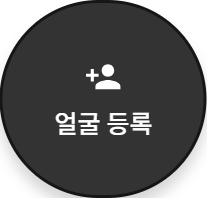
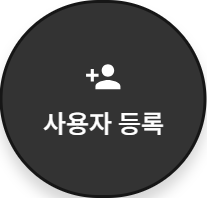
Fix: UI 수정 반영(반납, 연장, 버튼)

Changed region(s): [[0.2029, 0.5455, 0.8116, 0.697]]

diff --git a/ui_pages/extend_page.py b/ui_pages/extend_page.py
@@ -5,32 +5,29 @@ from PySide6.QtCore import Qt
 from .base_page import BasePage
 from ui_style import BUTTON_STYLE, CANCEL_BUTTON_STYLE
 
-class ReturnSeatPage(BasePage):
-    """좌석 반납 페이지"""
+class ExtendSeatPage(BasePage):
+    """좌석 연장 페이지"""
 
     def __init__(self, switch_callback):
         super().__init__(switch_callback)
-        self.setObjectName("ReturnSeatPage")
+        self.setObjectName("ExtendSeatPage")
 
         # 좌석 정보 (DB 연동 필요)
         self.seat_data = {
             "seat_room": "2-1",
-            "seat_number": "148",
-            "assigned_time_start": "1:00",
-            "assigned_time_end": "7:00",
-            "remaining_time_min": 300,
-            "total_time_min": 360,
-            "extend_time": "6:00"
+            "seat_number": "53",
+            "assigned_time_start": "1:00",  # 배정 시작
+            "assigned_time_end": "7:00",    # 배정 종료
+            "extend_duration": "3", # 연장 시간
+            "new_end_time": "10:00" # 연장 후 종료 시간
         }
-
-        # 색상 상수
+        
         CARD_BG = "#181818"
         BLUE = "#2e6cff"
         WHITE = "#ffffff"
-
-        # 기본 스타일
+        
         self.setStyleSheet(f"""
-            #ReturnSeatPage {{
+            #ExtendSeatPage {{
                 background-color: #1a1a1a;
                 color: {WHITE};
             }}
@@ -48,7 +45,7 @@ class ReturnSeatPage(BasePage):
         main_layout.addSpacing(40)
 
         # 질문 문구
-        question_label = QLabel("좌석을 반납하시겠습니까?")
+        question_label = QLabel("좌석을 연장하시겠습니까?")
         question_label.setAlignment(Qt.AlignCenter)
         question_label.setObjectName("QuestionText")
         main_layout.addWidget(question_label)
@@ -79,7 +76,7 @@ class ReturnSeatPage(BasePage):
         key_layout.setContentsMargins(0, 0, 0, 0)
         key_layout.setSpacing(22)
 
-        for text in ["좌석", "배정일시", "잔여시간", "연장가능시간"]:
+        for text in ["좌석", "배정일시", "연장시간", "종료시간"]: 
             lbl = QLabel(text)
             lbl.setStyleSheet(f"font-size: 16px; color: {WHITE}; font-weight: 800;")
             key_layout.addWidget(lbl, alignment=Qt.AlignLeft)
@@ -99,22 +96,21 @@ class ReturnSeatPage(BasePage):
             f'<span style="font-size:16px; color:{WHITE};">'
             f'제{self.seat_data["seat_room"]}열람실 {self.seat_data["seat_number"]}번'
             f'</span>',
-            
+
             # 배정일시
             f'<span style="font-size:16px; color:{WHITE};">'
             f'오후 {self.seat_data["assigned_time_start"]} ~ 오후 {self.seat_data["assigned_time_end"]}'
             f'</span>',
             
-            # 잔여시간
-            f'<span style="font-size:16px;">'
-            f'<span style="color:{BLUE}; font-weight:bold;">{self.seat_data["remaining_time_min"]}</span>' # 파란색
-            f'<span style="color:{WHITE};"> / {self.seat_data["total_time_min"]}</span>'
-            f'<span style="color:{WHITE};"> (분)</span>' 
-            f'</span>',
+            # 연장시간
+            f'<span style="font-size:16px; color:{BLUE}; font-weight:bold;">'
+            f'{self.seat_data["extend_duration"]}'  # 파란색
+            f'</span>'
+            f'<span style="font-size:16px; color:{WHITE};">시간</span>',
             
-            # 연장가능시간
+            # 종료시간
             f'<span style="font-size:16px; color:{WHITE};">'
-            f'오후 {self.seat_data["extend_time"]}'
+            f'오후 {self.seat_data["new_end_time"]}'
             f'</span>'
         ]
 
@@ -129,12 +125,12 @@ class ReturnSeatPage(BasePage):
         card_h_layout.addWidget(line_frame)
         card_h_layout.addLayout(value_layout)
 
-        # 반납 버튼
-        return_btn = QPushButton("반납")
-        return_btn.setFixedSize(120, 45)
-        return_btn.setStyleSheet(BUTTON_STYLE)
-        return_btn.clicked.connect(self._handle_return)
-        
+        # 연장 버튼
+        extend_btn = QPushButton("연장")
+        extend_btn.setFixedSize(120, 45)
+        extend_btn.setStyleSheet(BUTTON_STYLE)
+        extend_btn.clicked.connect(self._handle_extend)
+
         # 취소 버튼
         cancel_btn = QPushButton("취소")
         cancel_btn.setFixedSize(120, 45)
@@ -143,15 +139,15 @@ class ReturnSeatPage(BasePage):
 
         # 버튼 그룹 레이아웃
         btn_h_layout = QHBoxLayout()
-        btn_h_layout.addWidget(return_btn)
+        btn_h_layout.addWidget(extend_btn)
         btn_h_layout.addWidget(cancel_btn)
-        btn_h_layout.setAlignment(Qt.AlignHCenter)
-        
+        btn_h_layout.setAlignment(Qt.AlignCenter)
+
         main_layout.addSpacing(30)
         main_layout.addLayout(btn_h_layout)
         main_layout.addStretch(1)
 
 
-    def _handle_return(self):
-        """좌석 반납 처리 (DB 연동 필요)"""
-        self.switch_callback("result", mode="return")
+    def _handle_extend(self):
+        """좌석 연장 처리 (DB 연동 필요)"""
+        self.switch_callback("result", mode="extend")

diff --git a/main.py b/main.py
@@ -14,6 +14,7 @@ from ui_pages.enrollment_start_page import EnrollmentStartPage
 from ui_pages.enrollment_recording_page import EnrollmentRecordingPage
 from ui_pages.reservation_page import ReservationPage, SeatMapPage
 from ui_pages.return_page import ReturnSeatPage
+from ui_pages.extend_page import ExtendSeatPage
 
 from faceid.face_recognizer import FaceRecognizer
 
@@ -97,8 +98,8 @@ class MainWindow(QStackedWidget):
             self.setCurrentWidget(self.processing_page)
         
         elif page_name == "result":
-            if mode == "enroll":
-                result_page = ResultPage(self.switch_page, data, mode="enroll")
+            if mode:
+                result_page = ResultPage(self.switch_page, data, mode=mode)
             else:
                 result_page = ResultPage(self.switch_page, data)
 
@@ -115,7 +116,13 @@ class MainWindow(QStackedWidget):
             self.return_page = ReturnSeatPage(self.switch_page) 
             self.addWidget(self.return_page)
             self.setCurrentWidget(self.return_page)
-            
+
+        # 연장 페이지
+        elif page_name == "extend_seat":
+            self.extend_page = ExtendSeatPage(self.switch_page)   
+            self.addWidget(self.extend_page)
+            self.setCurrentWidget(self.extend_page)
+        
         # 임시 열람실 배치도 페이지
         elif page_name == "seat_map":
             self.seat_map_page = SeatMapPage(self.switch_page, data)

diff --git a/ui_pages/reservation_page.py b/ui_pages/reservation_page.py
@@ -145,7 +145,7 @@ class ReservationPage(BasePage):
         
         icon_layout.addWidget(self._create_icon_button("좌석확인", "simple_check.png", self._show_popup, "좌석 확인"))
         icon_layout.addWidget(self._create_icon_button("좌석반납", "return.png", self._go_to_return_page, None))
-        icon_layout.addWidget(self._create_icon_button("좌석연장", "more_time.png", self._show_popup, "좌석 연장"))
+        icon_layout.addWidget(self._create_icon_button("좌석연장", "more_time.png", self._go_to_extend_page, None))        
         icon_layout.addWidget(self._create_icon_button("Info", "info.png", self._show_popup, "안내사항"))
         
         layout.addLayout(icon_layout)
@@ -251,6 +251,9 @@ class ReservationPage(BasePage):
 
     def _go_to_return_page(self):
         self.switch_callback("return_seat")
+
+    def _go_to_extend_page(self):
+        self.switch_callback("extend_seat")
 
     def _go_to_seat_map(self, room_name):
         self.switch_callback("seat_map", room_name)

diff --git a/ui_pages/result_page.py b/ui_pages/result_page.py
@@ -52,6 +52,24 @@ class ResultPage(BasePage):
             sub_message = "메인 화면으로 자동 전환됩니다"
             timeout_ms = 5000
 
+        elif self.mode == "return":
+            # 반납 모드
+            icon_file = "resources/check.png"
+            main_message = "좌석 반납이\n완료되었습니다!"
+            sub_message = "메인 화면으로 자동 전환됩니다."
+            self.success = True
+            remaining_retries = 0
+            timeout_ms = 3000
+
+        elif self.mode == "extend":
+            # 연장 모드
+            icon_file = "resources/check.png"
+            main_message = "좌석 연장이\n완료되었습니다!" 
+            sub_message = "메인 화면으로 자동 전환됩니다."
+            self.success = True
+            remaining_retries = 0
+            timeout_ms = 3000
+
         self.setStyleSheet("background-color: transparent;")
 
         main_layout = self.get_content_layout()

diff --git a/ui_style.py b/ui_style.py
@@ -37,10 +37,27 @@ BUTTON_STYLE = """
         font-size: 16px; 
         font-weight: bold;
         min-height: 20px;
-        min-width: 100px;
+        min-width: 60px;
     }
     QPushButton:hover {
-        background-color: #5F5F5F;
+        background-color: #5A83F2;
+    }
+"""
+
+# 취소 버튼
+CANCEL_BUTTON_STYLE = """
+    QPushButton {
+        background-color: #7f7f7f;
+        color: white; 
+        border-radius: 20px;
+        padding: 12px 25px;
+        font-size: 16px; 
+        font-weight: bold;
+        min-height: 20px;
+        min-width: 60px;
+    }
+    QPushButton:hover {
+        background-color: #9f9f9f;
     }
 """
 
